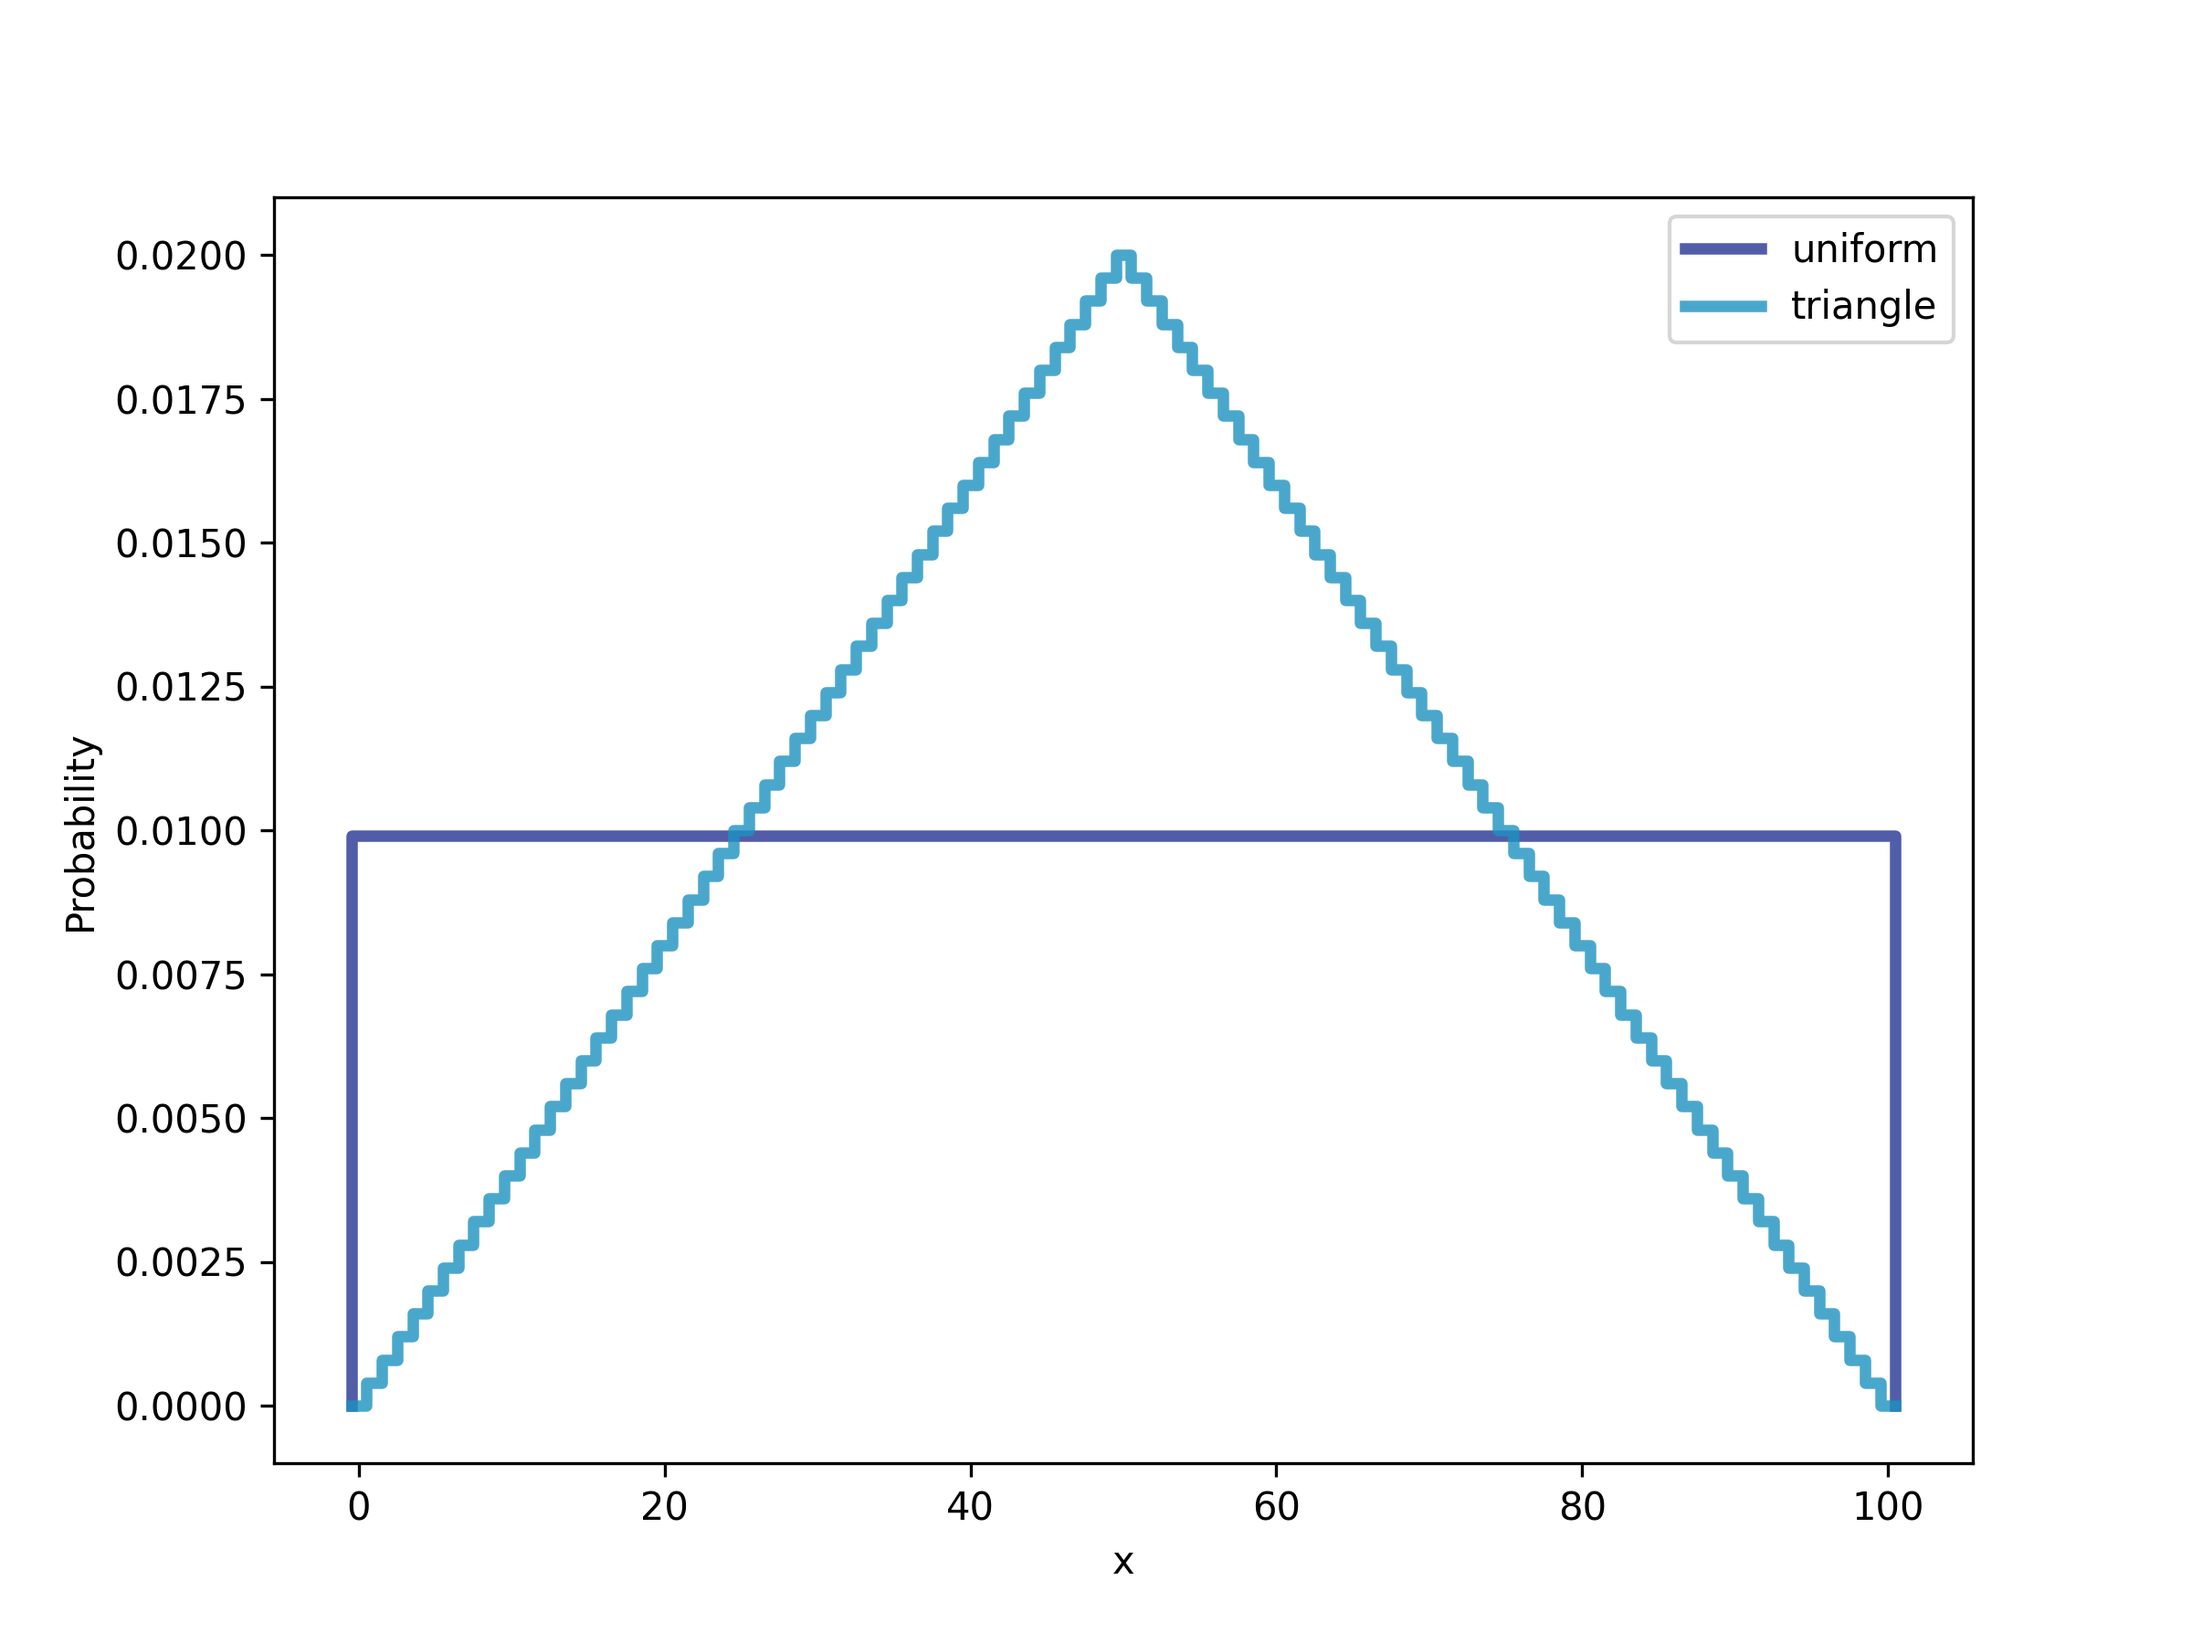
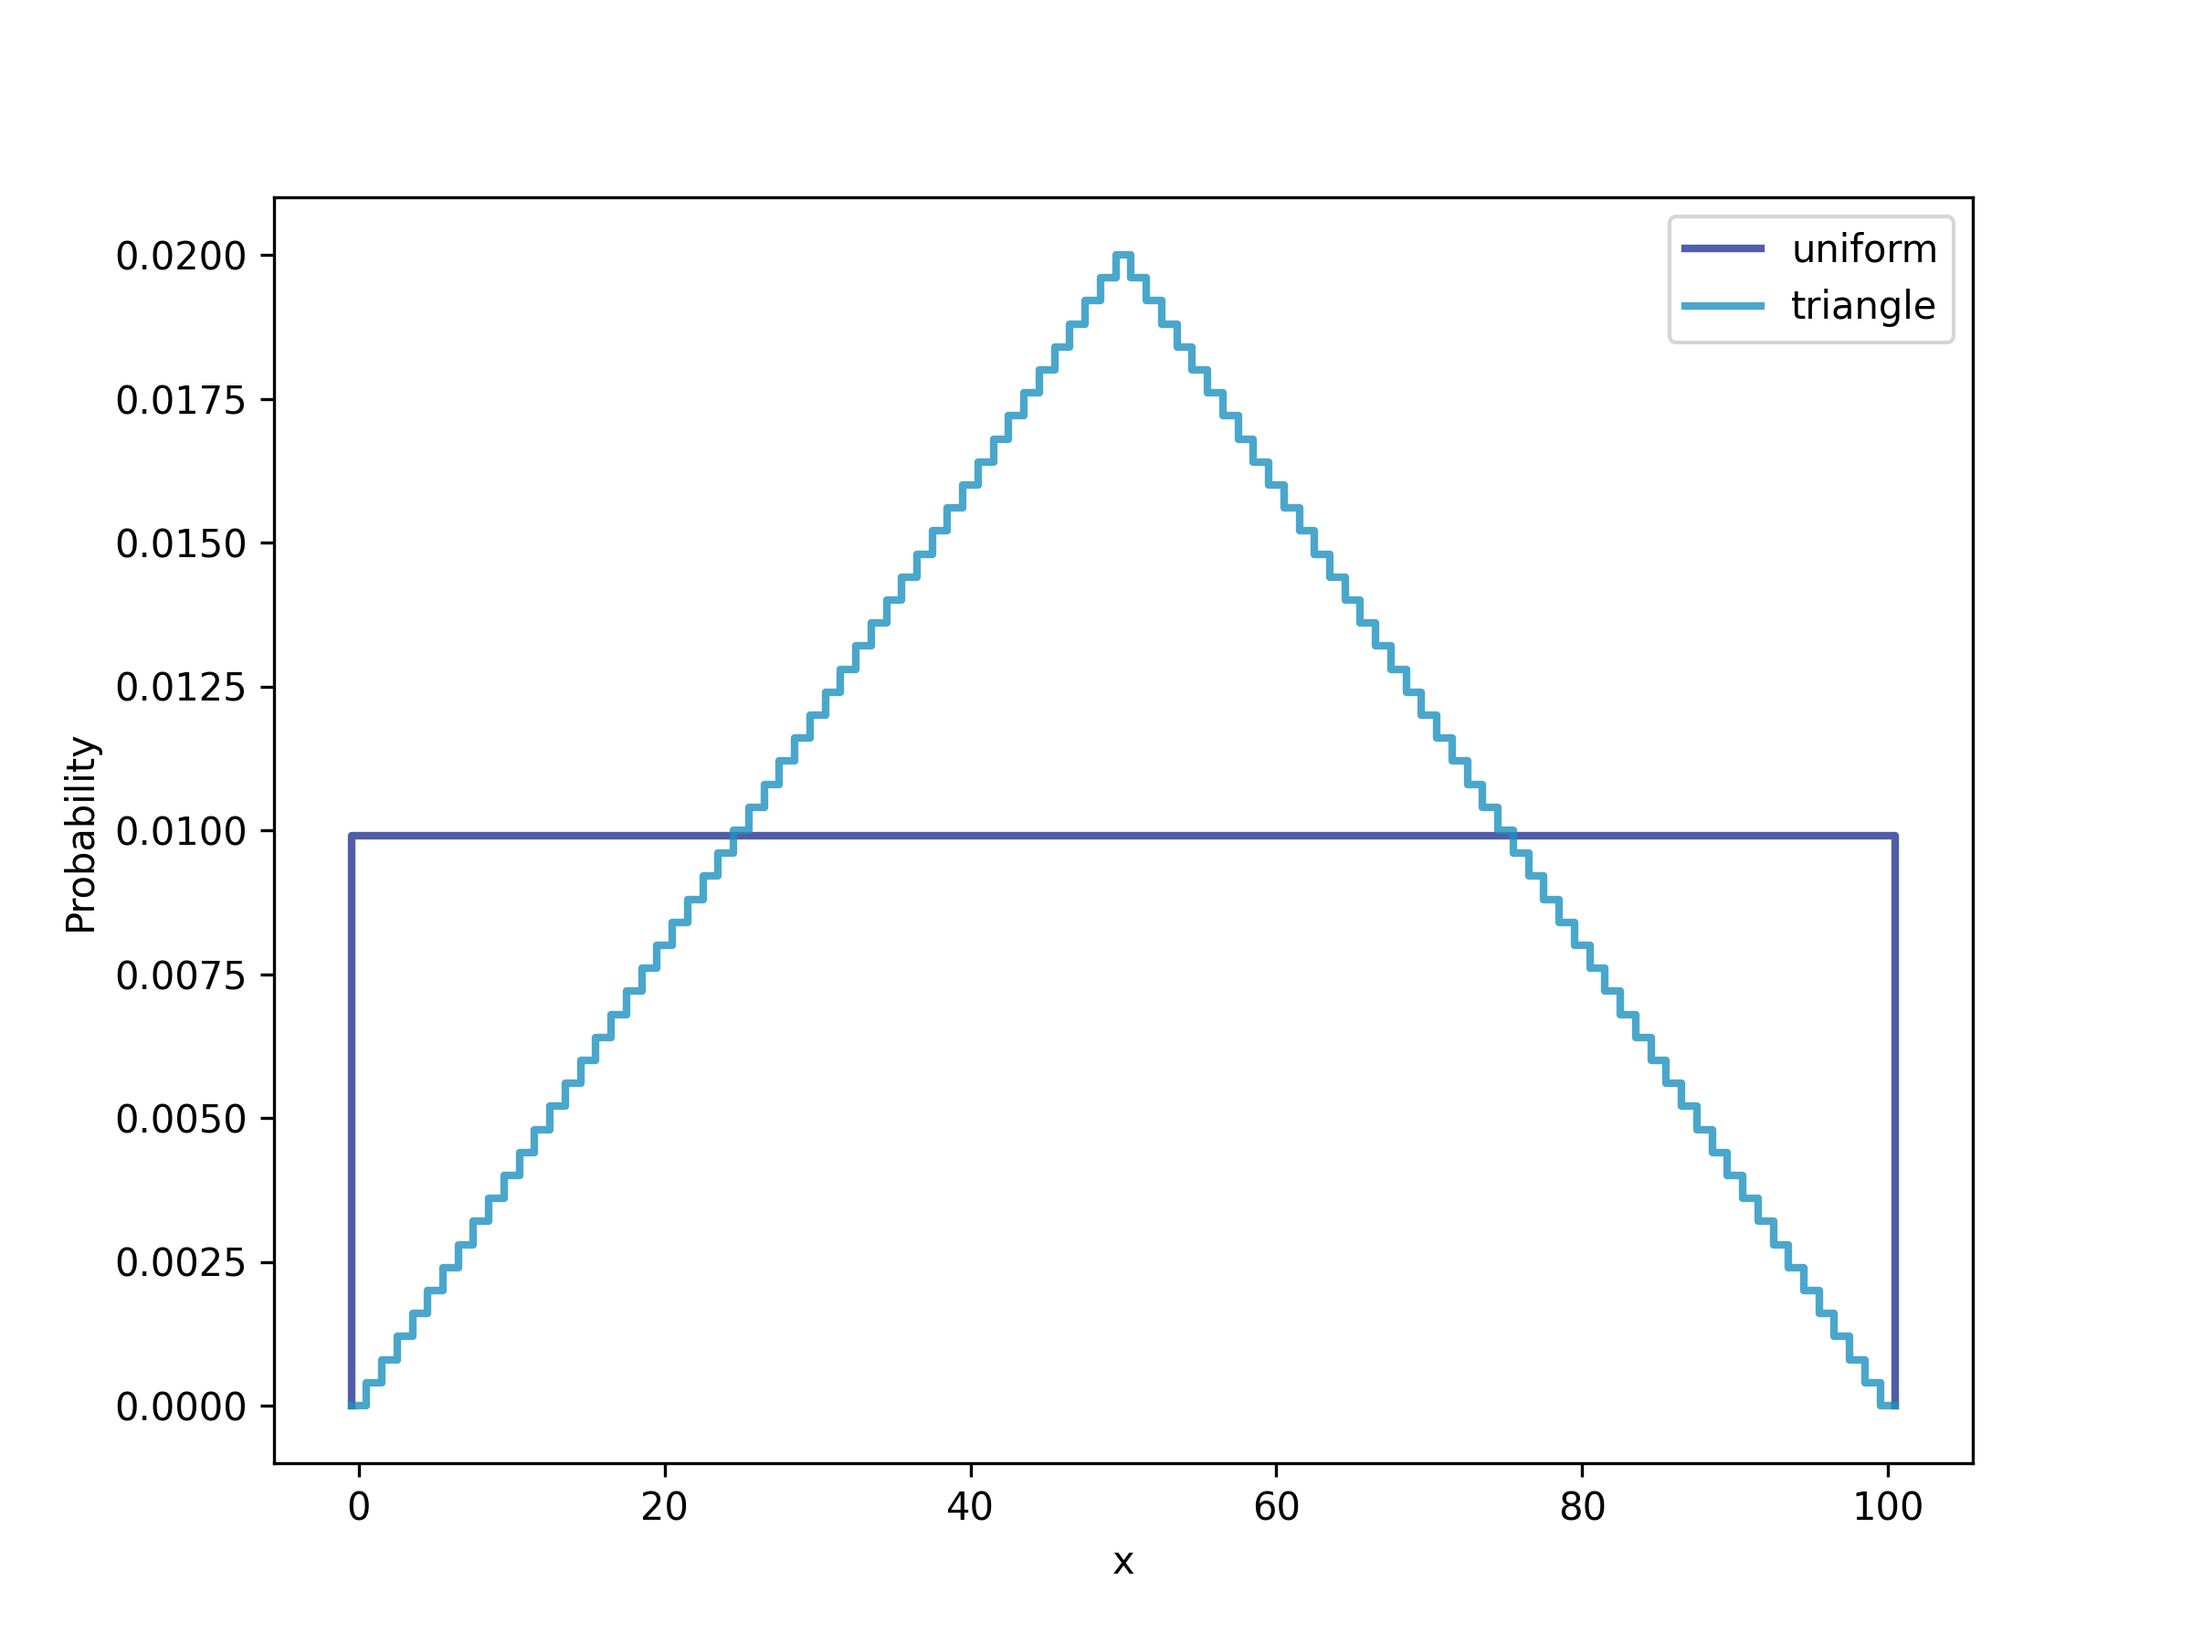
chap4

diff --git a/myplots.py b/myplots.py
@@ -43,6 +43,8 @@ class _Brewer(object):
         [0, 2, 3, 5, 6],
         [0, 2, 3, 4, 5, 6],
         [0, 1, 2, 3, 4, 5, 6],
+        [0, 1, 2, 3, 4, 5, 6, 7],
+        [0, 1, 2, 3, 4, 5, 6, 7, 8],
     ]
 
     @classmethod
@@ -149,7 +151,7 @@ def _UnderrideColor(options):
 def Plot(obj, ys=None, style="", **options):
     options = _UnderrideColor(options)
     label = getattr(obj, "name", "_nolegend_")
-    options = _Underride(options, linewidth=3, alpha=0.8, label=label)
+    options = _Underride(options, linewidth=2, alpha=0.8, label=label)
 
     xs = obj
     if ys is None:
@@ -465,10 +467,11 @@ def Save(root=None, formats=None, **options):
 
 def SaveFormat(root, fmt="png"):
     import os
-    resdir = os.getcwd() + '/results'
+
+    resdir = os.getcwd() + "/results"
     if not os.path.isdir(resdir):
         os.makedirs(resdir)
-    filename = f'{resdir}/{root}.{fmt}'
+    filename = f"{resdir}/{root}.{fmt}"
     print("Writing", filename)
     pyplot.savefig(filename, format=fmt, dpi=300)
 

diff --git a/chap4.py b/chap4.py
@@ -111,11 +111,21 @@ def main():
     PlotSuites([suite1], "euro1")
     PlotSuites([suite1, suite2], "euro3")
 
+    incr = 50
+    suiteSet = []
+    for i in range(5):
+        suite1 = UniformPrior()
+        suite1.name = f"uniform: {(i+1)*incr}"
+        RunUpdate(suite1, heads=(i + 1) * incr, tails=(i + 1) * (incr - 2))
+        suiteSet.append(suite1)
+
+    PlotSuites(suiteSet, "euro5")
+
     suite = Version3()
     print(suite.Mean())
 
     myplots.Pmf(suite)
-    myplots.Show(xlabel="x", ylabel="Probability")
+    # myplots.Show(xlabel="x", ylabel="Probability")
 
     data = 140, 110
     data = 8, 12
